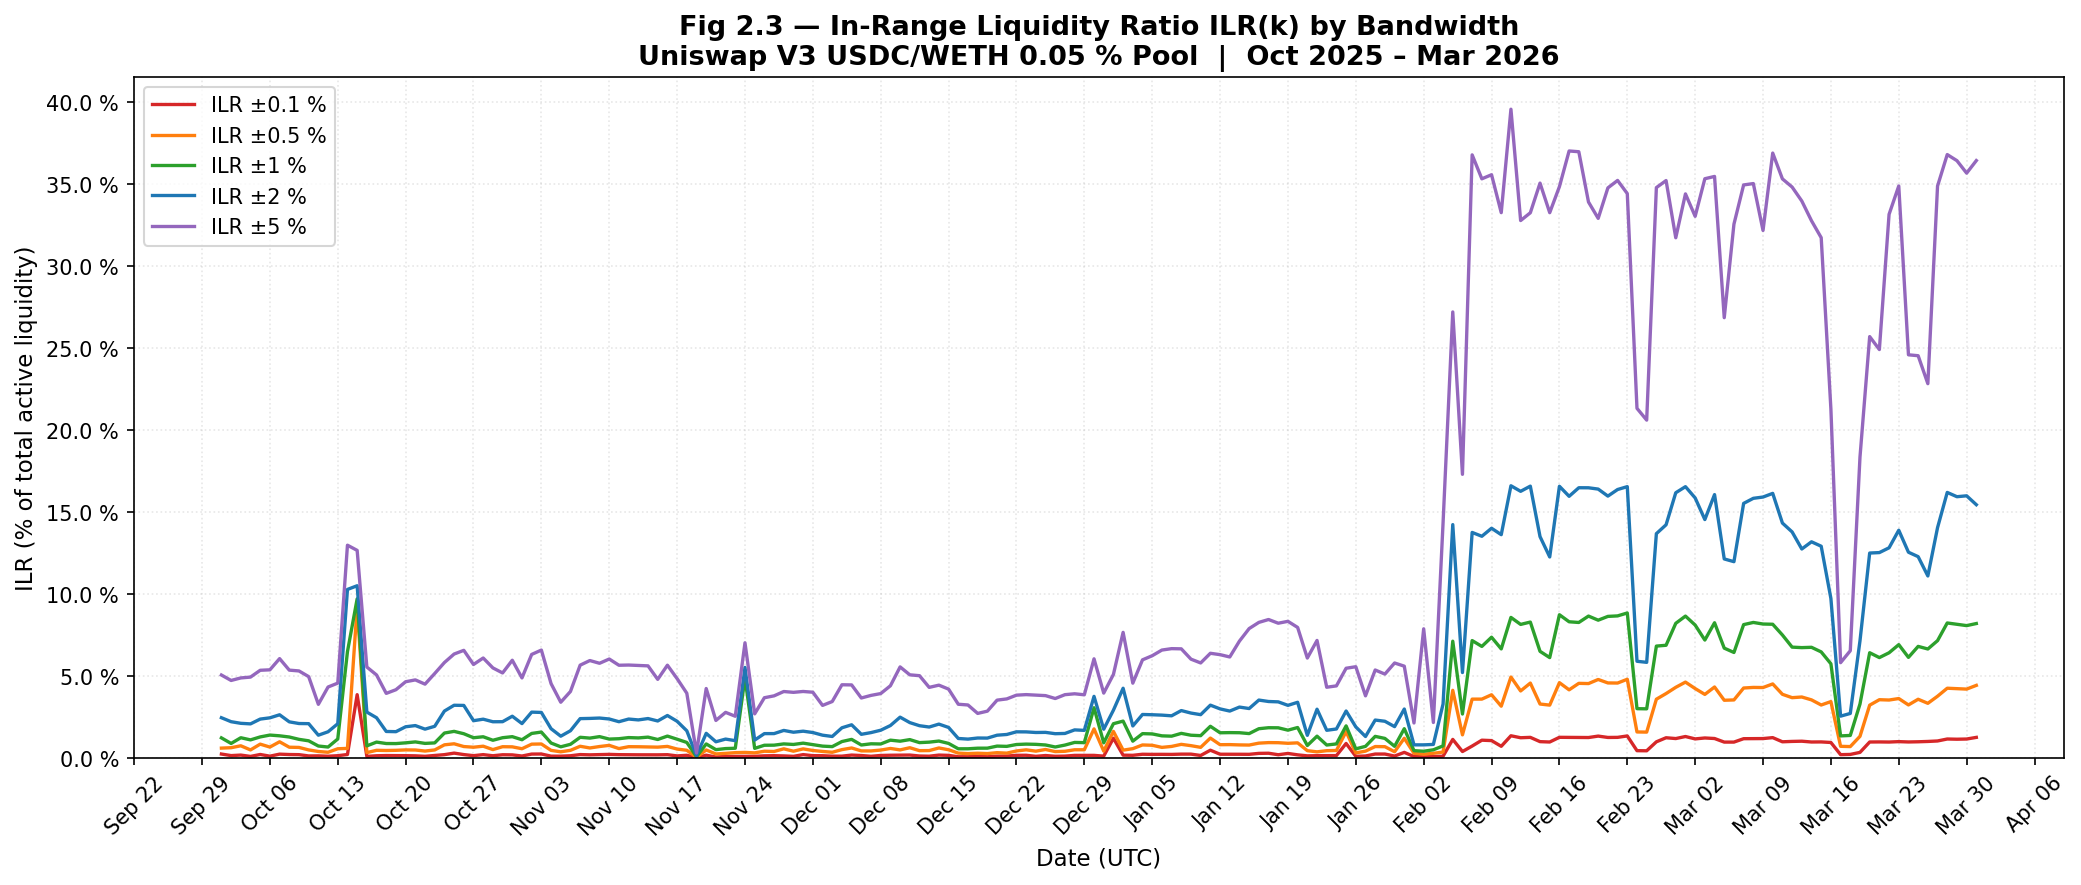
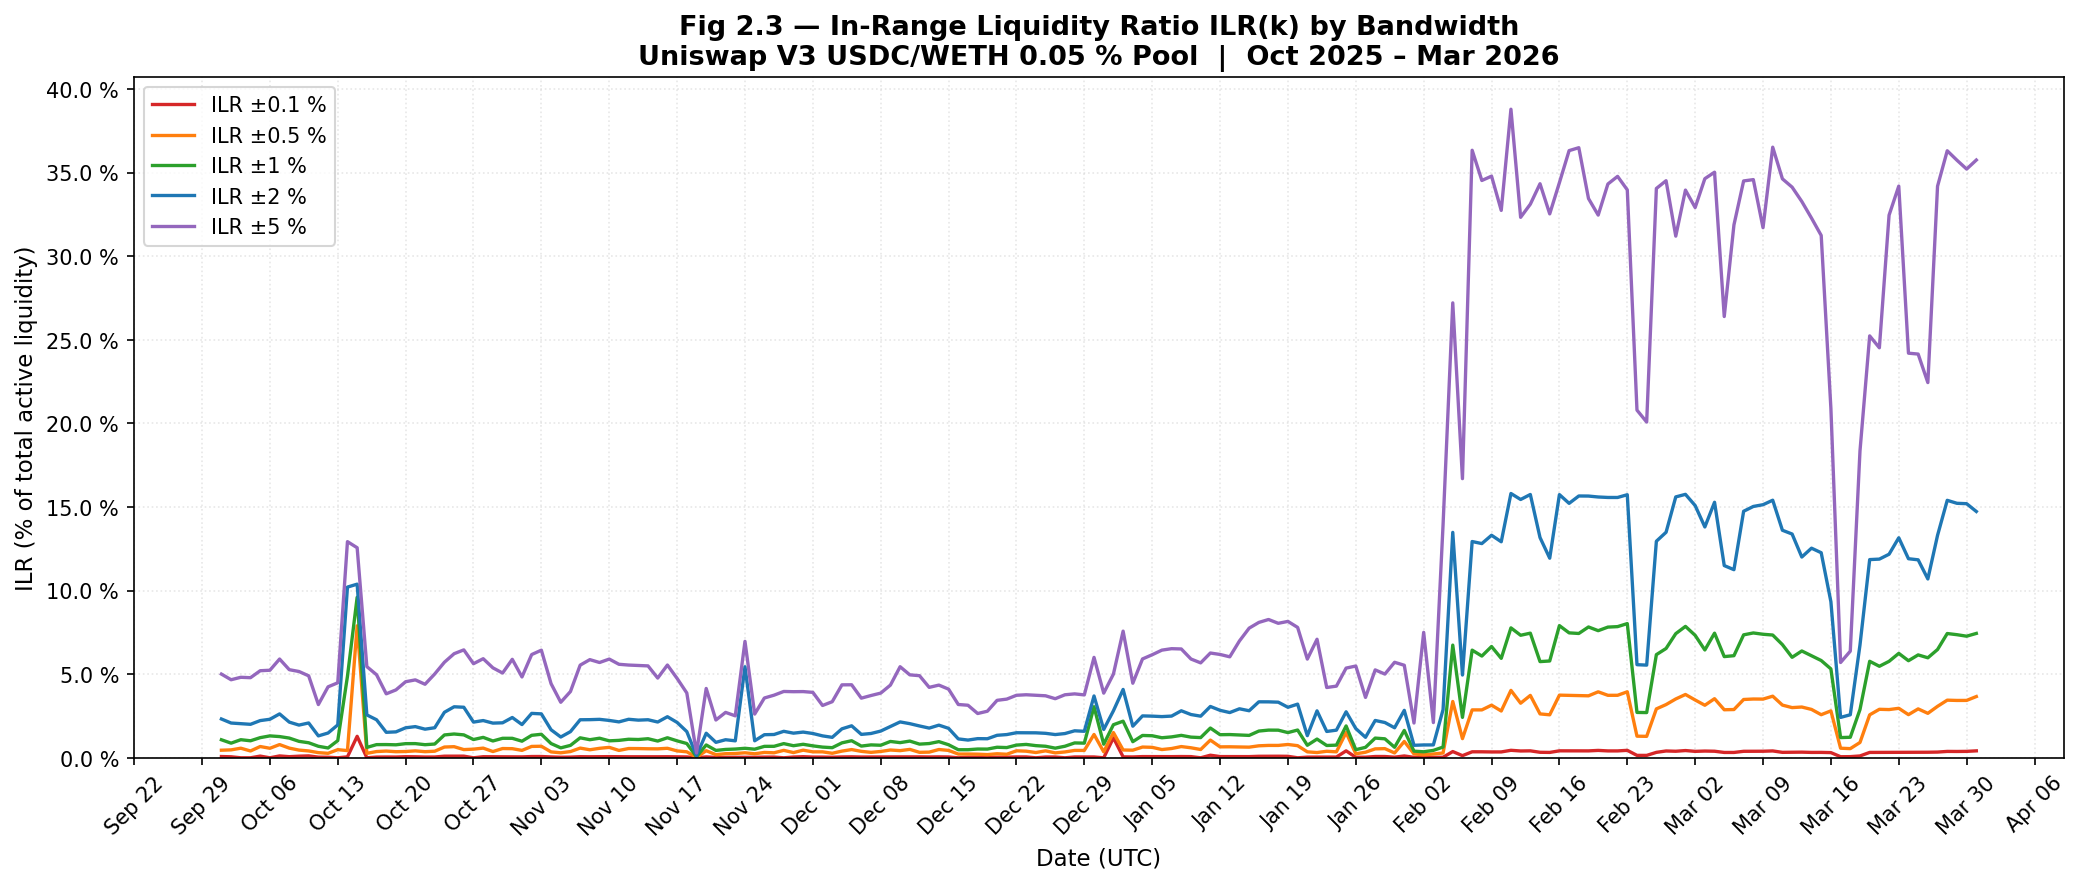
fixed figure 2_1b display and updated readme

diff --git a/liquidity_analysis.py b/liquidity_analysis.py
@@ -225,8 +225,11 @@ for block in snap_blocks:
     for k in ILR_BANDS:
         lo = price_usdc * (1 - k)
         hi = price_usdc * (1 + k)
-        # ticks whose mid-price falls in [lo, hi]
-        mask = (snap_liq["price_lower"] >= lo) & (snap_liq["price_upper"] <= hi)
+        # Strict containment: the tick interval [price_upper, price_lower] (low → high
+        # in USDC/WETH; remember USDC=token0 so a higher V3 tick gives a LOWER
+        # USDC/WETH value, hence price_upper < price_lower numerically) is entirely
+        # inside [lo, hi]. This matches the report formula in §2.3.
+        mask = (snap_liq["price_upper"] >= lo) & (snap_liq["price_lower"] <= hi)
         band_liq = snap_liq.loc[mask, "active_liquidity"].astype(float).sum()
         ilr[k] = band_liq / total_liq if total_liq > 0 else 0.0
 
@@ -241,7 +244,9 @@ for block in snap_blocks:
     # regardless of how many tick rows it spans.
     lo_hhi = price_usdc * 0.60
     hi_hhi = price_usdc * 1.40
-    hhi_mask = (snap_liq["price_lower"] >= lo_hhi) & (snap_liq["price_upper"] <= hi_hhi)
+    # Same strict-containment convention as the ILR mask above
+    # (price_upper < price_lower numerically because USDC=token0).
+    hhi_mask = (snap_liq["price_upper"] >= lo_hhi) & (snap_liq["price_lower"] <= hi_hhi)
     hhi_sub = snap_liq.loc[hhi_mask].copy()
 
     BUCKET_TICKS = 100 * TICK_SPACING   # 1000 ticks per bucket
@@ -355,49 +360,61 @@ print(f"  Saved → {fig21_path}")
 
 print("Generating Fig 2.1 tiled time-series …")
 
-n_snaps   = len(metrics_df)
-ncols     = min(6, n_snaps)
-nrows     = int(np.ceil(n_snaps / ncols))
+# Split the 182-day window into two chunks (Oct–Dec and Jan–Mar) and emit one
+# landscape PNG per chunk. This keeps each tile large enough to read while
+# preserving "all snapshots" coverage required by Task 2.1.
+split_ts   = pd.Timestamp("2026-01-01", tz="UTC")
+chunks     = [
+    ("Oct–Dec 2025", metrics_df[metrics_df["snapshot_timestamp"] <  split_ts]),
+    ("Jan–Mar 2026", metrics_df[metrics_df["snapshot_timestamp"] >= split_ts]),
+]
 
-fig, axes = plt.subplots(nrows, ncols, figsize=(4 * ncols, 3.5 * nrows))
-axes = np.array(axes).flatten()
+for chunk_idx, (chunk_label, chunk_df) in enumerate(chunks, start=1):
+    chunk_df = chunk_df.reset_index(drop=True)
+    n_snaps  = len(chunk_df)
+    # 12-wide grid keeps tiles square-ish (8.4" × 8.4" landscape-page area / 12 ≈ 0.7" tile)
+    ncols    = 12
+    nrows    = int(np.ceil(n_snaps / ncols))
 
-fig.suptitle(
-    "Fig 2.1b — Liquidity Profile Evolution (Daily Snapshots)\n"
-    "Uniswap V3 USDC/WETH 0.05 % Pool",
-    fontsize=14, fontweight="bold"
-)
+    fig, axes = plt.subplots(nrows, ncols, figsize=(2.2 * ncols, 1.9 * nrows))
+    axes = np.array(axes).flatten()
 
-for i, row in metrics_df.iterrows():
-    ax    = axes[i]
-    block = int(row["snapshot_block"])
-    cur_price = row["price_usdc_per_weth"]
+    fig.suptitle(
+        f"Fig 2.1b ({chunk_idx}/2) — Liquidity Profile Evolution: {chunk_label}\n"
+        "Uniswap V3 USDC/WETH 0.05 % Pool",
+        fontsize=14, fontweight="bold"
+    )
 
-    snap_liq = liq_df[liq_df["snapshot_block"] == block].copy()
-    lo_price  = cur_price * 0.85
-    hi_price  = cur_price * 1.15
-    snap_liq  = snap_liq[(snap_liq["price_lower"] >= lo_price) & (snap_liq["price_upper"] <= hi_price)]
+    for i, row in chunk_df.iterrows():
+        ax    = axes[i]
+        block = int(row["snapshot_block"])
+        cur_price = row["price_usdc_per_weth"]
 
-    prices = 0.5 * (snap_liq["price_lower"] + snap_liq["price_upper"])
-    liqs   = snap_liq["active_liquidity"].astype(float)
+        snap_liq = liq_df[liq_df["snapshot_block"] == block].copy()
+        lo_price  = cur_price * 0.85
+        hi_price  = cur_price * 1.15
+        snap_liq  = snap_liq[(snap_liq["price_lower"] >= lo_price) & (snap_liq["price_upper"] <= hi_price)]
 
-    ax.bar(prices, liqs,
-           width=(snap_liq["price_upper"] - snap_liq["price_lower"]),
-           color="steelblue", alpha=0.7, linewidth=0)
-    ax.axvline(cur_price, color="crimson", linewidth=1.0, linestyle="--")
-    ax.set_title(row["snapshot_timestamp"].strftime("%b %d"), fontsize=7)
-    ax.yaxis.set_visible(False)
-    ax.xaxis.set_major_formatter(mticker.FuncFormatter(lambda x, _: f"${x/1000:.0f}k"))
-    ax.tick_params(axis="x", labelsize=6, rotation=45)
+        prices = 0.5 * (snap_liq["price_lower"] + snap_liq["price_upper"])
+        liqs   = snap_liq["active_liquidity"].astype(float)
 
-for j in range(i + 1, len(axes)):
-    axes[j].set_visible(False)
+        ax.bar(prices, liqs,
+               width=(snap_liq["price_upper"] - snap_liq["price_lower"]),
+               color="steelblue", alpha=0.7, linewidth=0)
+        ax.axvline(cur_price, color="crimson", linewidth=1.0, linestyle="--")
+        ax.set_title(row["snapshot_timestamp"].strftime("%b %d"), fontsize=8)
+        ax.yaxis.set_visible(False)
+        ax.xaxis.set_major_formatter(mticker.FuncFormatter(lambda x, _: f"${x/1000:.0f}k"))
+        ax.tick_params(axis="x", labelsize=7, rotation=45)
 
-plt.tight_layout()
-fig21b_path = os.path.join(OUTPUT_DIR, "fig2_1b_liquidity_profile_tiled.png")
-plt.savefig(fig21b_path, dpi=120, bbox_inches="tight")
-plt.close()
-print(f"  Saved → {fig21b_path}")
+    for j in range(n_snaps, len(axes)):
+        axes[j].set_visible(False)
+
+    plt.tight_layout()
+    fig21b_path = os.path.join(OUTPUT_DIR, f"fig2_1b_liquidity_profile_tiled_p{chunk_idx}.png")
+    plt.savefig(fig21b_path, dpi=130, bbox_inches="tight")
+    plt.close()
+    print(f"  Saved → {fig21b_path}")
 
 # ---------------------------------------------------------------------------
 # 7.  FIGURE 2.2 — TVL DECOMPOSITION (stacked area chart)

diff --git a/README.md b/README.md
@@ -85,8 +85,8 @@ One row per initialised tick per daily snapshot. Snapshots are taken at the bloc
 
 | Column | Type | Unit | Description |
 |--------|------|------|-------------|
-| `snapshot_block` | int64 | block | Block number of the daily snapshot (closest block to 00:00 UTC) |
-| `snapshot_timestamp` | datetime64[UTC] | UTC datetime | Timestamp of the snapshot block |
+| `snapshot_block` | int64 | block | Block number of the daily snapshot (first block at or after 00:00 UTC each day) |
+| `snapshot_timestamp` | datetime64[UTC] | UTC datetime | Target 00:00 UTC of the snapshot day. The row's `snapshot_block` is the first Ethereum block at or after this instant; we store the target time (not the actual block timestamp) so the daily grid is exactly aligned. |
 | `tick` | int32 | tick index | Tick index of an initialised tick boundary (only ticks with liquidityGross > 0 are included) |
 | `liquidity_net` | string | liquidity units | Net liquidity change at this tick: positive at a position's lower boundary, negative at its upper boundary. Used to compute active liquidity by walking from MIN_TICK upward (int64); stored as string to avoid overflow |
 | `liquidity_gross` | string | liquidity units | Total absolute liquidity referencing this tick across all positions. A tick is initialised (active) when this value is greater than zero (int64); stored as string to avoid overflow |
@@ -102,8 +102,8 @@ One row per daily snapshot. The pool's price and tick state obtained via a direc
 
 | Column | Type | Unit | Description |
 |--------|------|------|-------------|
-| `snapshot_block` | int64 | block | Block number at which slot0() was called (closest block to 00:00 UTC each day) |
-| `snapshot_timestamp` | datetime64[UTC] | UTC datetime | Timestamp of the snapshot block |
+| `snapshot_block` | int64 | block | Block number at which slot0() was called (first block at or after 00:00 UTC each day) |
+| `snapshot_timestamp` | datetime64[UTC] | UTC datetime | Target 00:00 UTC of the snapshot day, same convention as `liquidity_snapshots.parquet`. |
 | `sqrtPriceX96` | string | raw | Square root of the pool price encoded as sqrt(price) × 2^96; stored as string to avoid uint160 overflow |
 | `price_usdc_per_weth` | float64 | USDC/WETH | Human-readable price derived from sqrtPriceX96, decimal-adjusted for USDC (6 decimals) and WETH (18 decimals) |
 | `current_tick` | int32 | tick index | The active tick at the snapshot block, i.e. the tick whose range contains the current price |